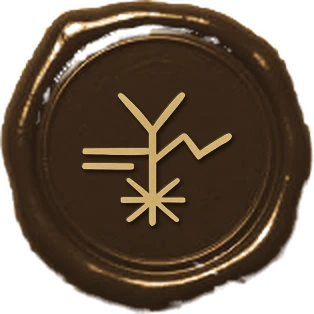
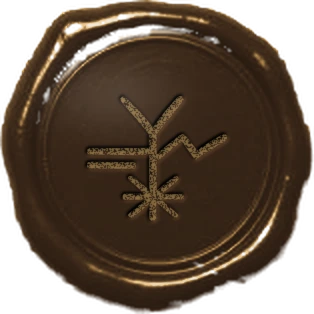
Lacre da passagem mais realista (símbolo afundado na cera com luz, sombra e pó de ouro) e 30% menor
Claude-Session: https://claude.ai/code/session_019kqAkVGodtTPLnZ4JhFLF3

Changed region(s): [[0.258, 0.2293, 0.7452, 0.7166]]

diff --git a/app/embarque.html b/app/embarque.html
@@ -73,7 +73,7 @@ body{background:var(--fundo) radial-gradient(ellipse at 50% 0%,#241A11,#0E0B08 7
 .c1 b{display:block;font:700 12px Cinzel,serif;letter-spacing:.06em}
 .c3{right:46px;bottom:8px;font:700 11px "Courier Prime",monospace;letter-spacing:.14em;border-top:2px solid currentColor;border-bottom:2px solid currentColor;padding:2px 4px;color:#3A4A6A;--rot:-4deg;animation:carimba .4s 2s cubic-bezier(.3,1.6,.5,1) forwards}
 .embarca{margin-top:26px;display:flex;flex-direction:column;align-items:center;gap:12px;opacity:0;animation:aparece .8s 2.3s ease forwards;width:100%;max-width:380px}
-.lacre{position:relative;width:118px;height:118px;border:0;padding:0;border-radius:50%;background:url(/img/lacre-escuro.webp) center/contain no-repeat;cursor:pointer;-webkit-tap-highlight-color:transparent;
+.lacre{position:relative;width:83px;height:83px;border:0;padding:0;border-radius:50%;background:url(/img/lacre-escuro.webp) center/contain no-repeat;cursor:pointer;-webkit-tap-highlight-color:transparent;
   filter:drop-shadow(0 8px 14px rgba(0,0,0,.75));animation:brilha 2.8s 3.1s ease-in-out infinite}
 .lacre:active{transform:scale(.95)}
 .lacre.aperta{animation:aperta .45s ease forwards}

diff --git a/app/index.html b/app/index.html
@@ -7,7 +7,7 @@
 <link rel="icon" href="img/icone-192.png">
 <link rel="apple-touch-icon" href="img/icone-192.png">
 <link rel="manifest" href="manifest.webmanifest">
-<script>window.__VERSAO = "10/10 · 14:33";</script>
+<script>window.__VERSAO = "10/10 · 14:34";</script>
 <script src="config.js"></script>
 <script src="shim.js"></script>
 <style>*,*::before,*::after{box-sizing:border-box}html,body{margin:0;height:100%}</style>

diff --git a/app/sw.js b/app/sw.js
@@ -1,4 +1,4 @@
-// marca: ea0cbdde88
+// marca: b1ef7a2f4b
 // Guarda o app inteiro no celular para abrir mesmo sem sinal (templo, estrada, wi-fi fraco do hotel).
 const CACHE = "caravana-v6", EXTRA = "caravana-ext", MAPA = "caravana-mapa";
 // lista de arquivos gerada pelo tools/gerar-site.py
